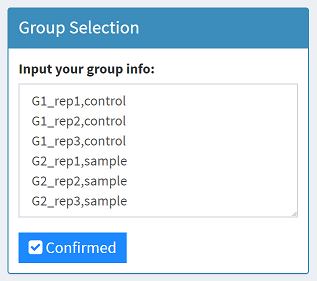
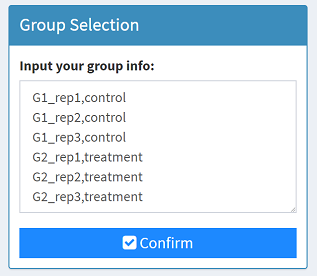
Update20181113
1. Fix some words and sentences in welcome page and update screenshots.
2. Add color selection help in heatmap.
3. Update data import help.
4. Change button label `Load Sample Data` to `Import Data`, `sample` to `treatment` and add alert of data import.
5. Fix a bug when click other help tab it will cause system down.
6. And other minor correction.

Changed region(s): [[0.0, 0.029, 0.9937, 0.9855], [0.0852, 0.4058, 0.4543, 0.6667], [0.0284, 0.0, 0.9653, 0.029]]

diff --git a/TCC-GUI/document/English_Welcome.md b/TCC-GUI/document/English_Welcome.md
@@ -1,37 +1,42 @@
-# What's TCC?  
+# 🤔What's TCC?  
 ---
 ![TCC LOGO](../www/tccLogo.png)
 
-**TCC (Differential expression analysis for tag count data with robust normalization strategies)** is a package provides a series of functions for performing differential expression analysis from RNA-seq count data using robust normalization strategy (called **DEGES**).   
+**[TCC](http://bioconductor.org/packages/TCC/)**^[1] is a [R](https://www.r-project.org/)/[Bioconductor](https://www.bioconductor.org/) package provides a series of functions for performing differential expression  (**DE**)  analysis from RNA-seq count data using a robust normalization strategy (called **DEGES**).   
 
-The basic idea of **DEGES** is that potential differentially expressed genes or transcripts (**DEGs**) among compared samples should be removed before data normalization to obtain a well-ranked gene list where true **DEGs** are top-ranked and **non-DEGs** are bottom ranked.   
+The basic idea of **DEGES** is that potential differentially expressed genes (**DEGs**) among compared samples should be removed before data normalization to obtain a well-ranked gene list where true **DEGs** are top-ranked and **non-DEGs** are bottom ranked. This can be done by performing the multi-step normalization procedures based on **DEGES** (**DEG elimination strategy**) implemented in TCC.    
 
-This can be done by performing a multi-step normalization strategy (called **DEGES** for **DEG elimination strategy**).  
-
-A major characteristic of **TCC** is to provide the robust normalization methods for several kinds of count data (**two-group with or without replicates**, **multi-group/multi-factor**, and so on) by virtue of the use of combinations of functions in depended packages.
-
-Author: Jianqiang Sun, Tomoaki Nishiyama, Kentaro Shimizu, and Koji Kadota
-
-GUI Version Developer: Wei Su  
+TCC internally uses functions provided by **edgeR**^[2], **DESeq**^[3], **DESeq2**^[4], and **baySeq**^[5] . The multi-step normalization of TCC can be done by using functions in the four packages. 
 
 
 
-# TCC-GUI Version: Graphical User Interface for Tag Count Comparison (TCC) package
+# 🔬TCC-GUI version: Graphical User Interface for TCC package
 ---
-In this **GUI version of TCC**, all parameter settings are available just like you are using the original one. Besides, the **GUI version** also provide lots of plotting function where the original package is unsupported now. 
+In this **GUI version of TCC (TCC-GUI)**, all parameter settings are available just like you are using the original one. Besides, it also provides lots of plotting functions where the original package is unsupported now. 
 
-#### Function
+## 🛠Function
 
-- Sample Distribution Plot
-- TCC Computation
-- MA Plot
-- Volcano Plot
-- PCA Analysis (clustering included)
-- Heatmap Plot (clustering included)
-- Expression Level Plot
-- Output result in table, figure, code or report (.md, .pdf)
+- Dataset `summarization` and sample `distribution plot` for sample quality control.
+- Differentially expressed genes selection by `TCC` computation.
+- Interactive visualization of `MA plot`, `Volcano plot`, `expression level plot` and so on.
+- `PCA` and `heatmap` analysis (clustering included).
+- Output result in table, figure, code or report (.md, .pdf) (Under developing).
 
-Please check other tab in Guidance for details.  
+Please check other tab in `Guidance` for details.  
 
-If you have any question about the application, comment and advise, please go to [github](https://github.com/swsoyee/TCC-GUI/issues) and open a issue (you can write in English, Chinese or Japanese as you like).
+# 📧Contact
+
+If you have any question about the application, comment and advise, please contact [kadota(at)bi.a.u-tokyo.ac.jp](mailto:kadota@bi.a.u-tokyo.ac.jp) or [suwei(at)bi.a.u-tokyo.ac.jp](mailto:suwei@bi.a.u-tokyo.ac.jp). 
+
+Also, you can access [Github](https://github.com/swsoyee/TCC-GUI/issues) and open a new issue for bug report or function requirement (you can write in English, Chinese or Japanese as you like).  
+
+
+
+# 📚References
+
+[1] Sun J, Nishiyama T, Shimizu K, et al. **TCC**: an R package for comparing tag count data with robust normalization strategies[J]. BMC bioinformatics, 2013, 14(1): 219.  
+[2] Robinson M D, McCarthy D J, Smyth G K. **edgeR**: a Bioconductor package for differential expression analysis of digital gene expression data[J]. Bioinformatics, 2010, 26(1): 139-140.  
+[3] Anders S, Huber W. Differential expression analysis for sequence count data[J]. Genome biology, 2010, 11(10): R106.   
+[4] Love M I, Huber W, Anders S. Moderated estimation of fold change and dispersion for RNA-seq data with **DESeq2**[J]. Genome biology, 2014, 15(12): 550.  
+[5] Hardcastle T J, Kelly K A. **baySeq** : empirical Bayesian methods for identifying differential expression in sequence count data[J]. BMC bioinformatics, 2010, 11(1): 422.  
 

diff --git a/TCC-GUI/document/English_Data_input.md b/TCC-GUI/document/English_Data_input.md
@@ -1,12 +1,12 @@
-1. First, click **[Data Import (Step 1)]** tab in the sider bar on the left of this page.  
+1. First, click **`Data Import (Step 1)`** tab in the side bar on the left of this page.  
   ![data import tab](../www/dataImportTab.png)  
-2. At the left of the top, you can **[Load Sample Data]** just for a test, or click **[Upload]** data tab for uploading your own dataset. Please make sure it's a **count data** file and just numeric value in the file (except column and row name). If you are going to upload large dataset to the application, please wait until the file has been uploaded completely.  
+2. At the left of the top, you can `[Import Data]` just for a test, or click `[Upload]` data tab for uploading your own `tab-delimited text file` like [hypodata.txt](http://www.iu.a.u-tokyo.ac.jp/~kadota/R_seq/data_hypodata_3vs3.txt). Please make sure it's a original `count data` file. If you are going to upload large dataset (such as file in 50,000 rows when using online version TCC-GUI), please wait until the file has been uploaded completely. In this case, offline version is highly recommended.   
   ![load sample data](../www/loadData.png)  
-  Data will be shown after finishing loaded.  
+  Data will be shown after loaded.  
   ![load sample data](../www/RawCountTable.png)  
-3. After the dataset loaded, input your grouping into the **[Group Selection]** panel. 
+3. After the dataset loaded, input your grouping into the `[Group Selection]` panel. 
    - First column is your sample name (the same as the column's name of your input dataset), only the columns which are listed at here will be included into analysis.   
    - Second column is your grouping name (such as "control" or "sample")  
      ![group selection](../www/GroupSelection.png)  
-4. Click **[Confirmed]** button, wait for a while, and the **[Summary of Data]** and **[Sample Distribution]** will show more information of your dataset. You can modify the plot and save them for the purpose of studying or publishing.  
+4. Click `[Confirmed]` button, wait for a while, and the `[Summary of Data]` and `[Sample Distribution]` will show more information of your dataset. You can modify the plot and save them for the purpose of studying or publishing.  
   ![summary of data](../www/summaryOfData.png)  

diff --git a/TCC-GUI/document/English_Heatmap.md b/TCC-GUI/document/English_Heatmap.md
@@ -1,4 +1,14 @@
 1. You can select genes by two method, **By list** and **By FDR**.  
-  ![Heatmap Parameters](../www/HeatmapParameters.png)  
-2. Change the parameters for heatmap (if you wish), and click the **[Run]** button.  
-  ![heatmap](../www/heatmap.png)  
+  - **By list**: Input a list of genes' name those you want it to be shown in heatmap.  
+  - **By FDR**: Use FDR cut off and the top ***N*** genes to generate heatmap.  
+
+    ![Heatmap Parameters](../www/HeatmapParameters.png)  
+2. Change the parameters for heatmap (if you wish).  
+   Click the `[Run heatmap]` button, and the result will show up on the right.  
+
+    ![heatmap](../www/heatmap.png)    
+
+3. How to change the color in heatmap?
+   In `Choose colormap`, select a color map and the `number of colors` you prefer to use in the heatmap.  
+
+![color map](../www/colormap.png)
